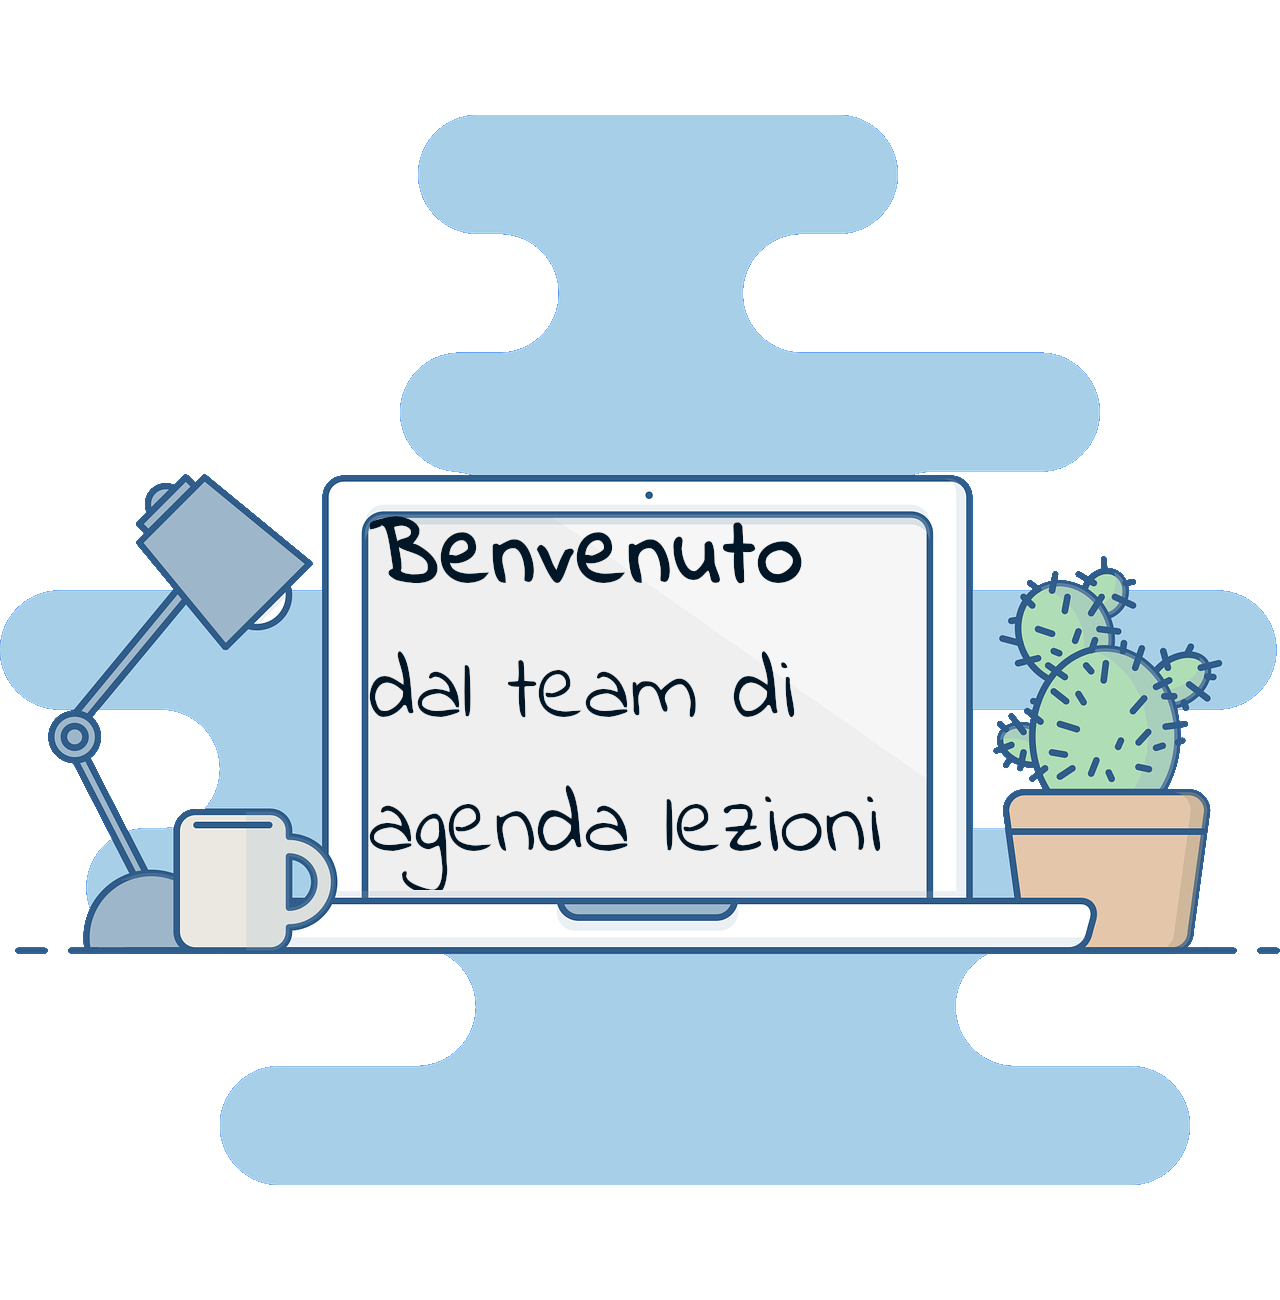
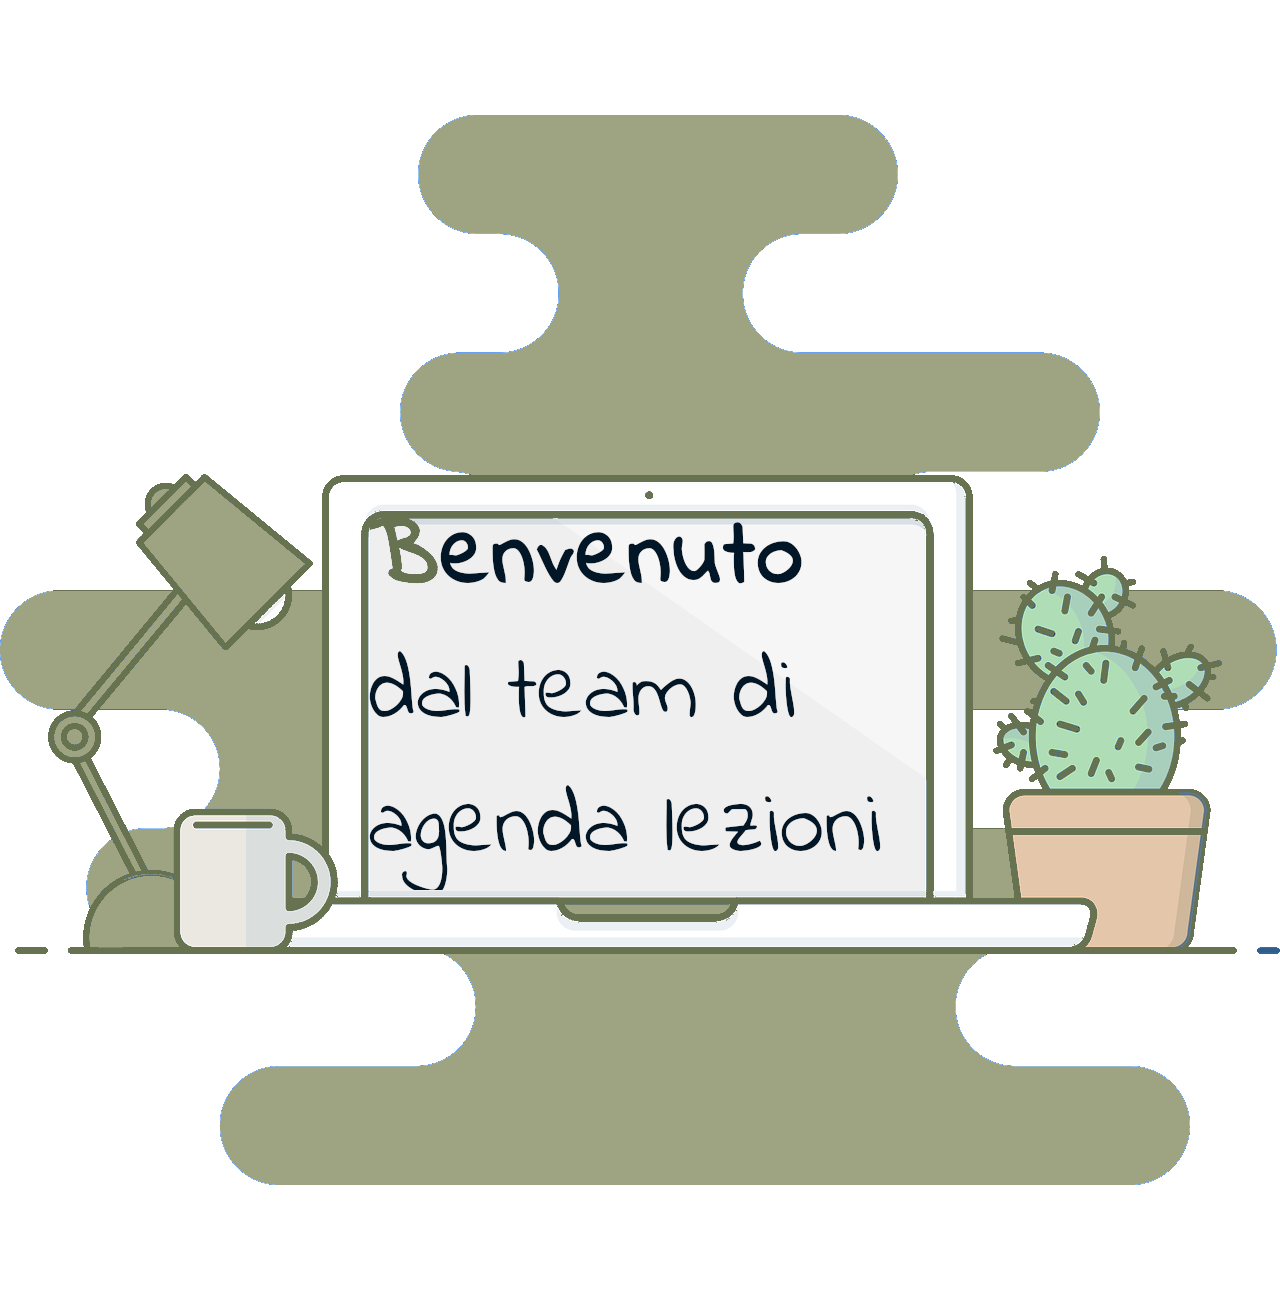
iniziato il restyling del sito

Changed region(s): [[0.0, 0.0615, 1.0, 0.9231], [0.0, 0.7077, 0.0312, 0.7385]]

diff --git a/index.html b/index.html
@@ -24,8 +24,8 @@
     <!-- stats.js lib --> 
     <script src="https://threejs.org/examples/js/libs/stats.min.js"></script>
 
-    <nav class="navbar navbar-expand-lg navbar-light bg-light" id="navbar">
-      <a class="navbar-brand text-primary" href="#"><img src="img/icon-foglia-bianca.png" style="height: 55px; width: auto;"> Agenda Lezione</a>
+    <nav class="navbar navbar-expand-lg navbar-light bg-light" style="background-color: #677250 !important;" id="navbar">
+      <a class="navbar-brand" style="color: white;" href="#"><img src="img/icon-foglia-bianca.png" style="height: 55px; width: auto;"> Agenda Lezione</a>
       <button class="navbar-toggler" type="button" data-toggle="collapse" data-target="#navbarSupportedContent" aria-controls="navbarSupportedContent" aria-expanded="false" aria-label="Toggle navigation">
         <span class="navbar-toggler-icon"></span>
       </button>
@@ -53,35 +53,40 @@
         </ul>
         <div class="custom-control custom-switch">
           <input type="checkbox" class="custom-control-input" id="DarkMode">
-          <label class="custom-control-label text" for="DarkMode" style="font-size: medium;">Darkmode</label>
+          <label class="custom-control-label text" for="DarkMode" style="color: white !important; padding-top: 2px; font-size: medium;">Darkmode</label>
         </div>
       </div>
     </nav>
 
+    <div style="display: block; height: 90px; width: 100%;"></div>
+
     
       <div class="container">
         <div class="row animate__animated animate__fadeInDown" id="home">
-          <div class="col-md-5">
+          <div class="col-md-5 order-md-2">
             <img src="img/intro.png" class="dim-img">
           </div>
-          <div class="col-md-7">
-            <h1 class="display-4 text" style="margin-bottom: 50px;">Tieni tutto sotto occhio con agenda lezioni</h1>
-            <h3 class="text" style="font-size: 30px;" >Organizza al meglio la tua giornata in maniera semplice e intuitiva</h3>
-            <h3 class="text" style="margin-bottom: 50px; font-size: 30px;">Scarica subito agenda lezioni gratuitamente</h3>
+          <div class="col-md-7 order-md-1">
+            <h1 class="display-4 text" style="margin-bottom: 50px;">Agenda Lezioni</h1>
+            <h3 class="text" style="font-size: 30px;" >La tua giornata, organizzata<br>a portata di telefono</h3>
             <div class="row">
               <div class="col-md-6">                           
                 <p>
                   <a class="btn btn-primary text btn-first" data-toggle="collapse" href="#collapseExample" role="button" aria-expanded="false" aria-controls="collapseExample">
-                    Download
+                    Download Gratis
                   </a>
                 </p>
                 <div class="collapse" id="collapseExample">
                   <div class="card card-body background text">
+                    <a href="#guida-download">
+                      Quale download preferire?
+                    </a>
+                    <br>
                     <p>
-                      più pesante <button class="btn btn-primary downloadApk">Download apk</button>
+                      <button class="btn btn-primary downloadApk">Download apk</button>
                     </p>
                     <p>
-                      meno pesante <button class="btn btn-secondary downloadZip" >Download zip</button>
+                      <button class="btn btn-secondary downloadZip" >Download zip</button>
                     </p>
                   </div>
                 </div>
@@ -161,6 +166,19 @@
             </div>
           </div>
           <hr class="mini-div-hr hr">
+          <hr class="mini-div-hr hr">
+          <div class="col-md-4 mini-card text" data-aos="fade-left">
+            <div>
+              <svg xmlns="http://www.w3.org/2000/svg" width="16" height="16" fill="currentColor" class="bi bi-brush mini-card-svg" viewBox="0 0 16 16">
+                <path d="M15.825.12a.5.5 0 0 1 .132.584c-1.53 3.43-4.743 8.17-7.095 10.64a6.067 6.067 0 0 1-2.373 1.534c-.018.227-.06.538-.16.868-.201.659-.667 1.479-1.708 1.74a8.118 8.118 0 0 1-3.078.132 3.659 3.659 0 0 1-.562-.135 1.382 1.382 0 0 1-.466-.247.714.714 0 0 1-.204-.288.622.622 0 0 1 .004-.443c.095-.245.316-.38.461-.452.394-.197.625-.453.867-.826.095-.144.184-.297.287-.472l.117-.198c.151-.255.326-.54.546-.848.528-.739 1.201-.925 1.746-.896.126.007.243.025.348.048.062-.172.142-.38.238-.608.261-.619.658-1.419 1.187-2.069 2.176-2.67 6.18-6.206 9.117-8.104a.5.5 0 0 1 .596.04zM4.705 11.912a1.23 1.23 0 0 0-.419-.1c-.246-.013-.573.05-.879.479-.197.275-.355.532-.5.777l-.105.177c-.106.181-.213.362-.32.528a3.39 3.39 0 0 1-.76.861c.69.112 1.736.111 2.657-.12.559-.139.843-.569.993-1.06a3.122 3.122 0 0 0 .126-.75l-.793-.792zm1.44.026c.12-.04.277-.1.458-.183a5.068 5.068 0 0 0 1.535-1.1c1.9-1.996 4.412-5.57 6.052-8.631-2.59 1.927-5.566 4.66-7.302 6.792-.442.543-.795 1.243-1.042 1.826-.121.288-.214.54-.275.72v.001l.575.575zm-4.973 3.04.007-.005a.031.031 0 0 1-.007.004zm3.582-3.043.002.001h-.002z"/>
+              </svg>  
+            </div>            
+            <div>
+              <p class="mini-card-p">
+                Interfaccia semplice e intuitiva
+              </p>
+            </div>
+          </div>
           <div class="col-md-4 mini-card text" data-aos="flip-up">
             <div>
               <svg viewBox="0 0 16 16" class="bi bi-book mini-card-svg" fill="currentColor" xmlns="http://www.w3.org/2000/svg">
@@ -174,20 +192,7 @@
               </p>
             </div>
           </div>
-          <hr class="mini-div-hr hr">
-          <div class="col-md-4 mini-card text" data-aos="fade-left">
-            <div>
-              <svg viewBox="0 0 16 16" class="bi bi-check2-all mini-card-svg" fill="currentColor" xmlns="http://www.w3.org/2000/svg">
-                <path fill-rule="evenodd" d="M12.354 3.646a.5.5 0 0 1 0 .708l-7 7a.5.5 0 0 1-.708 0l-3.5-3.5a.5.5 0 1 1 .708-.708L5 10.293l6.646-6.647a.5.5 0 0 1 .708 0z"/>
-                <path d="M6.25 8.043l-.896-.897a.5.5 0 1 0-.708.708l.897.896.707-.707zm1 2.414l.896.897a.5.5 0 0 0 .708 0l7-7a.5.5 0 0 0-.708-.708L8.5 10.293l-.543-.543-.707.707z"/>
-              </svg>
-            </div>
-            <div>
-              <p class="mini-card-p">
-                L'app dispone di un'interfaccia semplice e di un breve tutorial
-              </p>
-            </div>
-          </div>
+          
         </div>
 
         
@@ -204,26 +209,35 @@
     
     <div class="jumbotron jumbotron-fluid">
       <div class="container">
-        <p class="display-4">
+        <p class="display-4" style="font-size: 3.1em;">
           Privacy
         </p>
         <p class="lead">
           Qualiasi informazione inserita nell'app verrà salvata nella memoria del dispositivo non sul cloud, pertanto l'applicazione non ha bisogno di una connessione ad internet per funzionare
         </p>
-        <h1 class="display-4 jumbotron-margin-bottom" style="font-size: 3.1em;">
-          Come installare l'applicazione
-        </h1>
+        <p class="display-4" style="font-size: 3.1em;">
+          Sicurezza
+        </p>
+        <p class="lead">
+          Questa app è un app open source, ovvero il codice dell'app è disponibile su github.<br>Questa app è stata sritta a scopo educativo, ovvero senza fini commerciali o malevoli.
+        </p>
+        <p id="guida-download" class="display-4 jumbotron-margin-bottom" style="font-size: 3.1em;">
+          Guida download
+        </p>
+        <p class="lead">
+          Agenda lezioni rende il download disponibile attraverso 2 diverse opzioni, scegli quella che fa più al caso tuo
+        </p>
         <h2 class="display-6" >
           Da APK <span class="badge badge-primary">Consigliato</span>
         </h2>
         <p class="lead">
-          una volta terminato il download, cercare il file "com.mtttia.agenda_lezioni.apk" nei download e cliccarci sopra per installarla
+          Il download è un po' più pesante, ma la procedura per l'installazione è sicuramente la più semplice : una volta terminato il download, cercare il file "com.mtttia.agenda_lezioni.apk" nei download e cliccarci sopra per installarla
         </p>
         <h2 class="display-6">
           Da ZIP
         </h2>
         <p class="lead">
-          una volta terminato il download, cercare il file "agenda_lezioni.zip" nei download, cliccarci sopra per estrarla, poi cercare all'interno della stessa cartella, cercare la cartella "agenda_lezioni", aprirla e infine cliccare sul file "com.mtttia.agenda_lezioni.apk" per installarlo
+          Il download è un meno pesante, ma la procedura per l'installazione è un po' più complicata : una volta terminato il download, cercare il file "agenda_lezioni.zip" nei download, cliccarci sopra per estrarla, poi cercare all'interno della stessa cartella, cercare la cartella "agenda_lezioni", aprirla e infine cliccare sul file "com.mtttia.agenda_lezioni.apk" per installarlo
         </p>
         <h3 class="display-6">
           Durante il download, il sistema vi dirà che l'app è stata creata da uno sviluppatore non riconosciuto, questo perchè noi per ora non siamo sul play store, perciò google non ci riconosce, a quel punto bisogna cliccare "Installa lo stesso"

diff --git a/css/style.css b/css/style.css
@@ -2,6 +2,7 @@
 
 body{
     transition: all 0.5s ease;
+    background-color: #F2F2F2;
 }
 
 .dim-img{
@@ -51,12 +52,62 @@ body{
 }
 
 .btn{ 
-    border-radius: 100px;
+    border-radius: 13px;
     padding-left: 28px;
     padding-right: 28px;
     padding-top: 12px;
     padding-bottom: 12px;
     font-size: 16px;
+}
+
+.btn-primary{
+    color: white !important;
+    background-color: #677250;
+    border-color: #677250;
+}
+.btn-primary:hover{
+    color: white !important;
+    background-color: #4e573b;
+    border-color: #4e573b;
+}
+.btn-primary:not(:disabled):not(.disabled):active, .show > .btn-primary.dropdown-toggle {
+    color: #fff;
+    background-color: #4e573b;
+    border-color: #4e573b;
+}
+.btn-primary:not(:disabled):not(.disabled):active:focus, .show > .btn-primary.dropdown-toggle:focus {
+    box-shadow: 0 0 0 .2rem #9EA482;
+}
+.btn-primary:focus {
+    color: #fff;
+    background-color: #4e573b;
+    border-color: #4e573b;
+    box-shadow: 0 0 0 .2rem #9EA482;
+}
+
+.btn-secondary{
+    color: black !important;
+    background-color: #CDC5B2;
+    border-color: #CDC5B2;
+}
+.btn-secondary:hover{
+    color: black !important;
+    background-color: #a7a090;
+    border-color: #a7a090;
+}
+.btn-secondary:not(:disabled):not(.disabled):active, .show > .btn-secondary.dropdown-toggle {
+    color: #fff;
+    background-color: #a7a090;
+    border-color: #a7a090;
+}
+.btn-secondary:not(:disabled):not(.disabled):active:focus, .show > .btn-secondary.dropdown-toggle:focus {
+    box-shadow: 0 0 0 .2rem #EDE6DE;
+}
+.btn-secondary:focus {
+    color: #fff;
+    background-color: #a7a090;
+    border-color: #a7a090;
+    box-shadow: 0 0 0 .2rem #EDE6DE;
 }
 
 .hr{
@@ -91,6 +142,7 @@ body{
 
 .nav-link{
     font-size: medium;
+    color: white !important;
 }
 
 /*DarkMode classes*/
@@ -104,21 +156,23 @@ body{
 }
 
 .btn-primary-dark{
-    background-color: #061e3b;
-    border-color: #061e3b;
+    background-color: #2a2e20;
+    border-color: #2a2e20;
     color: #ffffff !important;
 }
 .btn-primary-dark:hover{
-    background-color: #000b18;
-    border-color: #000b18;
+    background-color: #161811;
+    border-color: #161811;
     color: #ffffff !important; 
 }
 
 .btn-secondary-dark{
+    color: white !important;
     background-color: #131313;
     border-color: #131313;
 }
 .btn-secondary-dark:hover{
+    color: white !important;
     background-color: #000000;
     border-color: #000000;
 }
@@ -131,6 +185,10 @@ body{
 .jumbotron-dark{
     background-color: #292929;
     color: #ffffff;
+}
+
+.alert-info-dark{
+    color: #d6f9ff !important;
 }
 
 

diff --git a/css/particle.css b/css/particle.css
@@ -1,4 +1,4 @@
 /* ---- reset ---- */ body{ margin:0; font:normal 75% Arial, Helvetica, sans-serif; } 
-canvas{ display: block; vertical-align: bottom; } 
+canvas{ display: block;  } 
 /* ---- particles.js container ---- */ 
-#particles-js{ position:absolute; width: 100%; height: 100%; background-image: url(""); background-repeat: no-repeat; background-size: cover; background-position: 50% 50%; } /* ---- stats.js ---- */ .count-particles{ background: #000022; position: absolute; top: 48px; left: 0; width: 80px; color: #13E8E9; font-size: .8em; text-align: left; text-indent: 4px; line-height: 14px; padding-bottom: 2px; font-family: Helvetica, Arial, sans-serif; font-weight: bold; } .js-count-particles{ font-size: 1.1em; } #stats, .count-particles{ -webkit-user-select: none; margin-top: 5px; margin-left: 5px; } #stats{ border-radius: 3px 3px 0 0; overflow: hidden; } .count-particles{ border-radius: 0 0 3px 3px; }
+#particles-js{ position:fixed; top:0px;left: 0px;z-index: -1; width: 100%; height: 100%; background-image: url(""); background-repeat: no-repeat; background-size: cover; background-position: 50% 50%; } /* ---- stats.js ---- */ .count-particles{ background: #000022; position: absolute; top: 48px; left: 0; width: 80px; color: #13E8E9; font-size: .8em; text-align: left; text-indent: 4px; line-height: 14px; padding-bottom: 2px; font-family: Helvetica, Arial, sans-serif; font-weight: bold; } .js-count-particles{ font-size: 1.1em; } #stats, .count-particles{ margin-top: 5px; margin-left: 5px; } #stats{ border-radius: 3px 3px 0 0; overflow: hidden; } .count-particles{ border-radius: 0 0 3px 3px; }

diff --git a/js/script.js b/js/script.js
@@ -11,12 +11,12 @@ $(document).ready(function(){
 
     $(".downloadApk").click(function(){
         window.open("https://drive.google.com/file/d/1YueURL40veUh10joC4lnB2iotvK3LHIr/view?usp=sharing");
-        window.open("post-download.html/#apk", "_top");
+        //window.open("post-download.html/#apk", "_top");
     })
 
     $(".downloadZip").click(function(){
-        window.open("https://drive.google.com/file/d/1YueURL40veUh10joC4lnB2iotvK3LHIr/view?usp=sharing");
-        window.open("post-download.html/#zip", "_top");
+        window.open("https://drive.google.com/file/d/1Ni0-YvLB_QhnqatHWylmD7CQpfw0_v94/view?usp=sharing");
+        //window.open("post-download.html/#zip", "_top");
     })
 
 });
@@ -34,4 +34,5 @@ function ChangeMode(){
     $("#navbar").toggleClass("navbar-dark");
     $("#navbar").toggleClass("bg-light");
     $("#navbar").toggleClass("bg-dark");
+    $('.alert-info').toggleClass("alert-info-dark");
 }

diff --git a/js/particle.js b/js/particle.js
@@ -1,6 +1,6 @@
 particlesJS("particles-js", {"particles":{"number":{"value":6,"density":{"enable":true,"value_area":800}},
-"color":{"value":"#dce0ff"},
-"shape":{"type":"polygon","stroke":{"width":0,"color":"#000"},
+"color":{"value":"#EDE6DE"}, //dce0ff
+"shape":{"type":"polygon","stroke":{"width":0,"color":"#F2F2F2"},
 "polygon":{"nb_sides":6},
 "image":{"src":"img/github.svg","width":100,"height":100}},
 "opacity":{"value":0.3,"random":true,"anim":{"enable":false,"speed":1,"opacity_min":0.1,"sync":false}},
